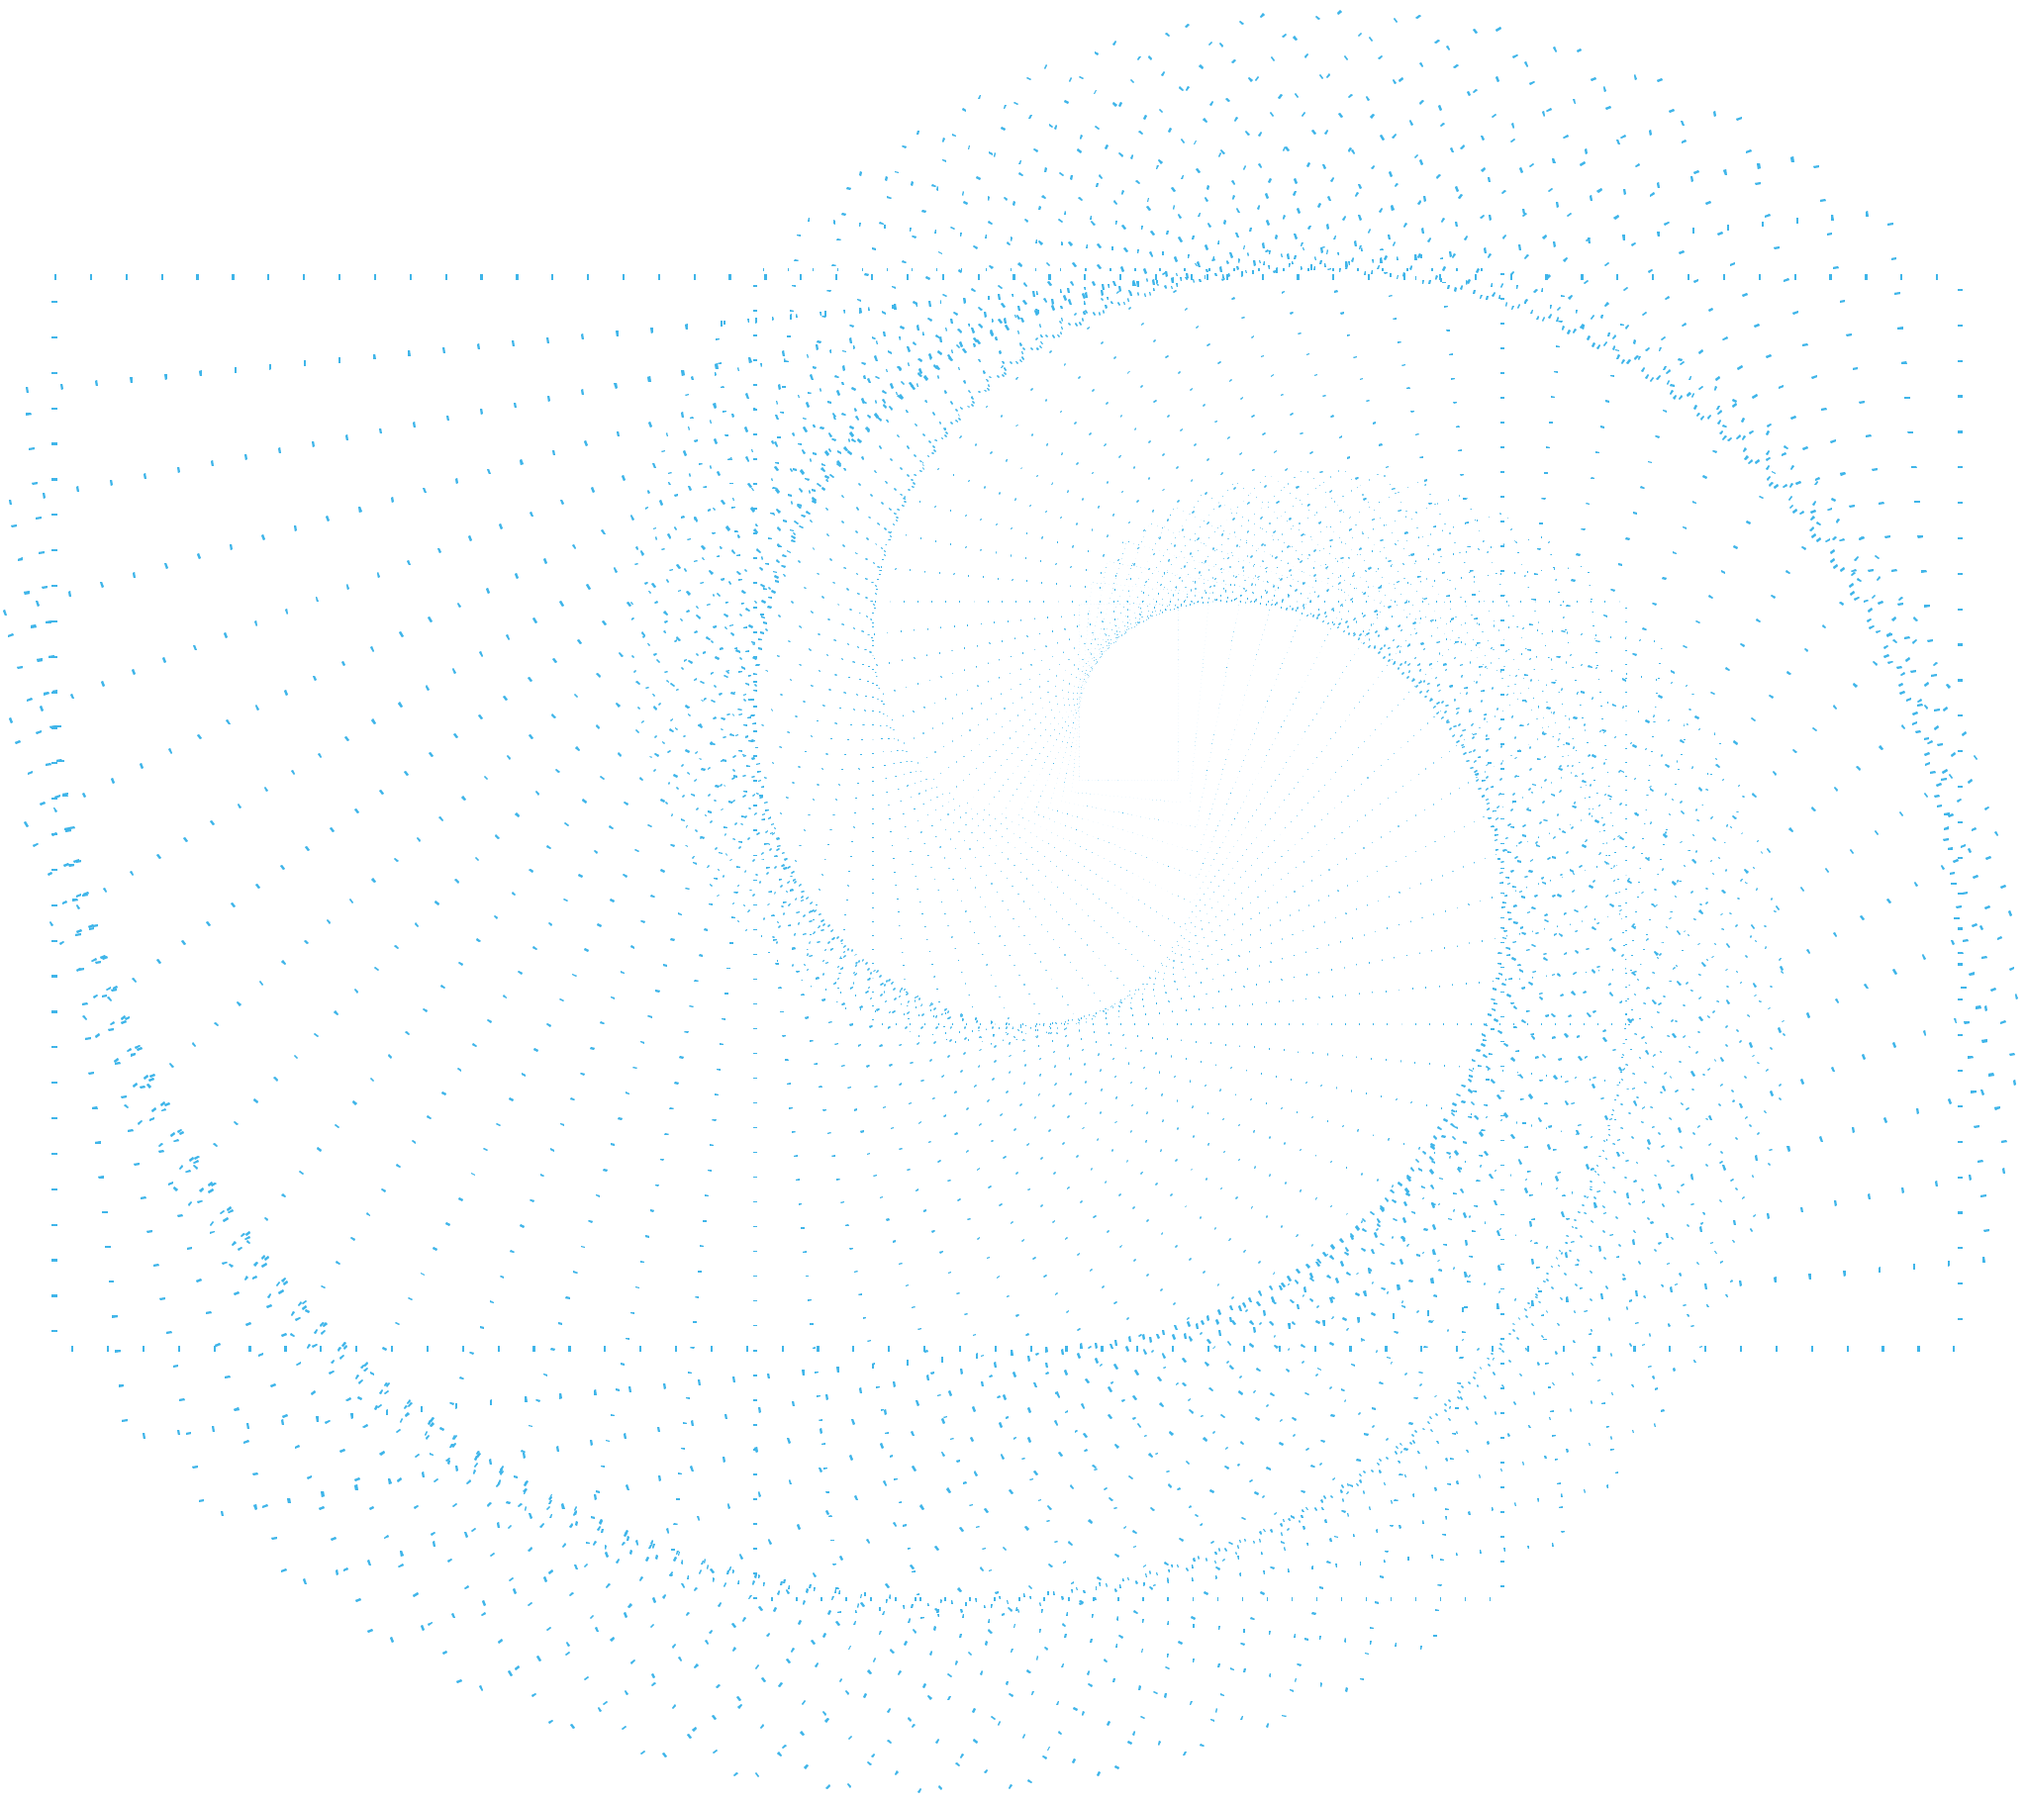
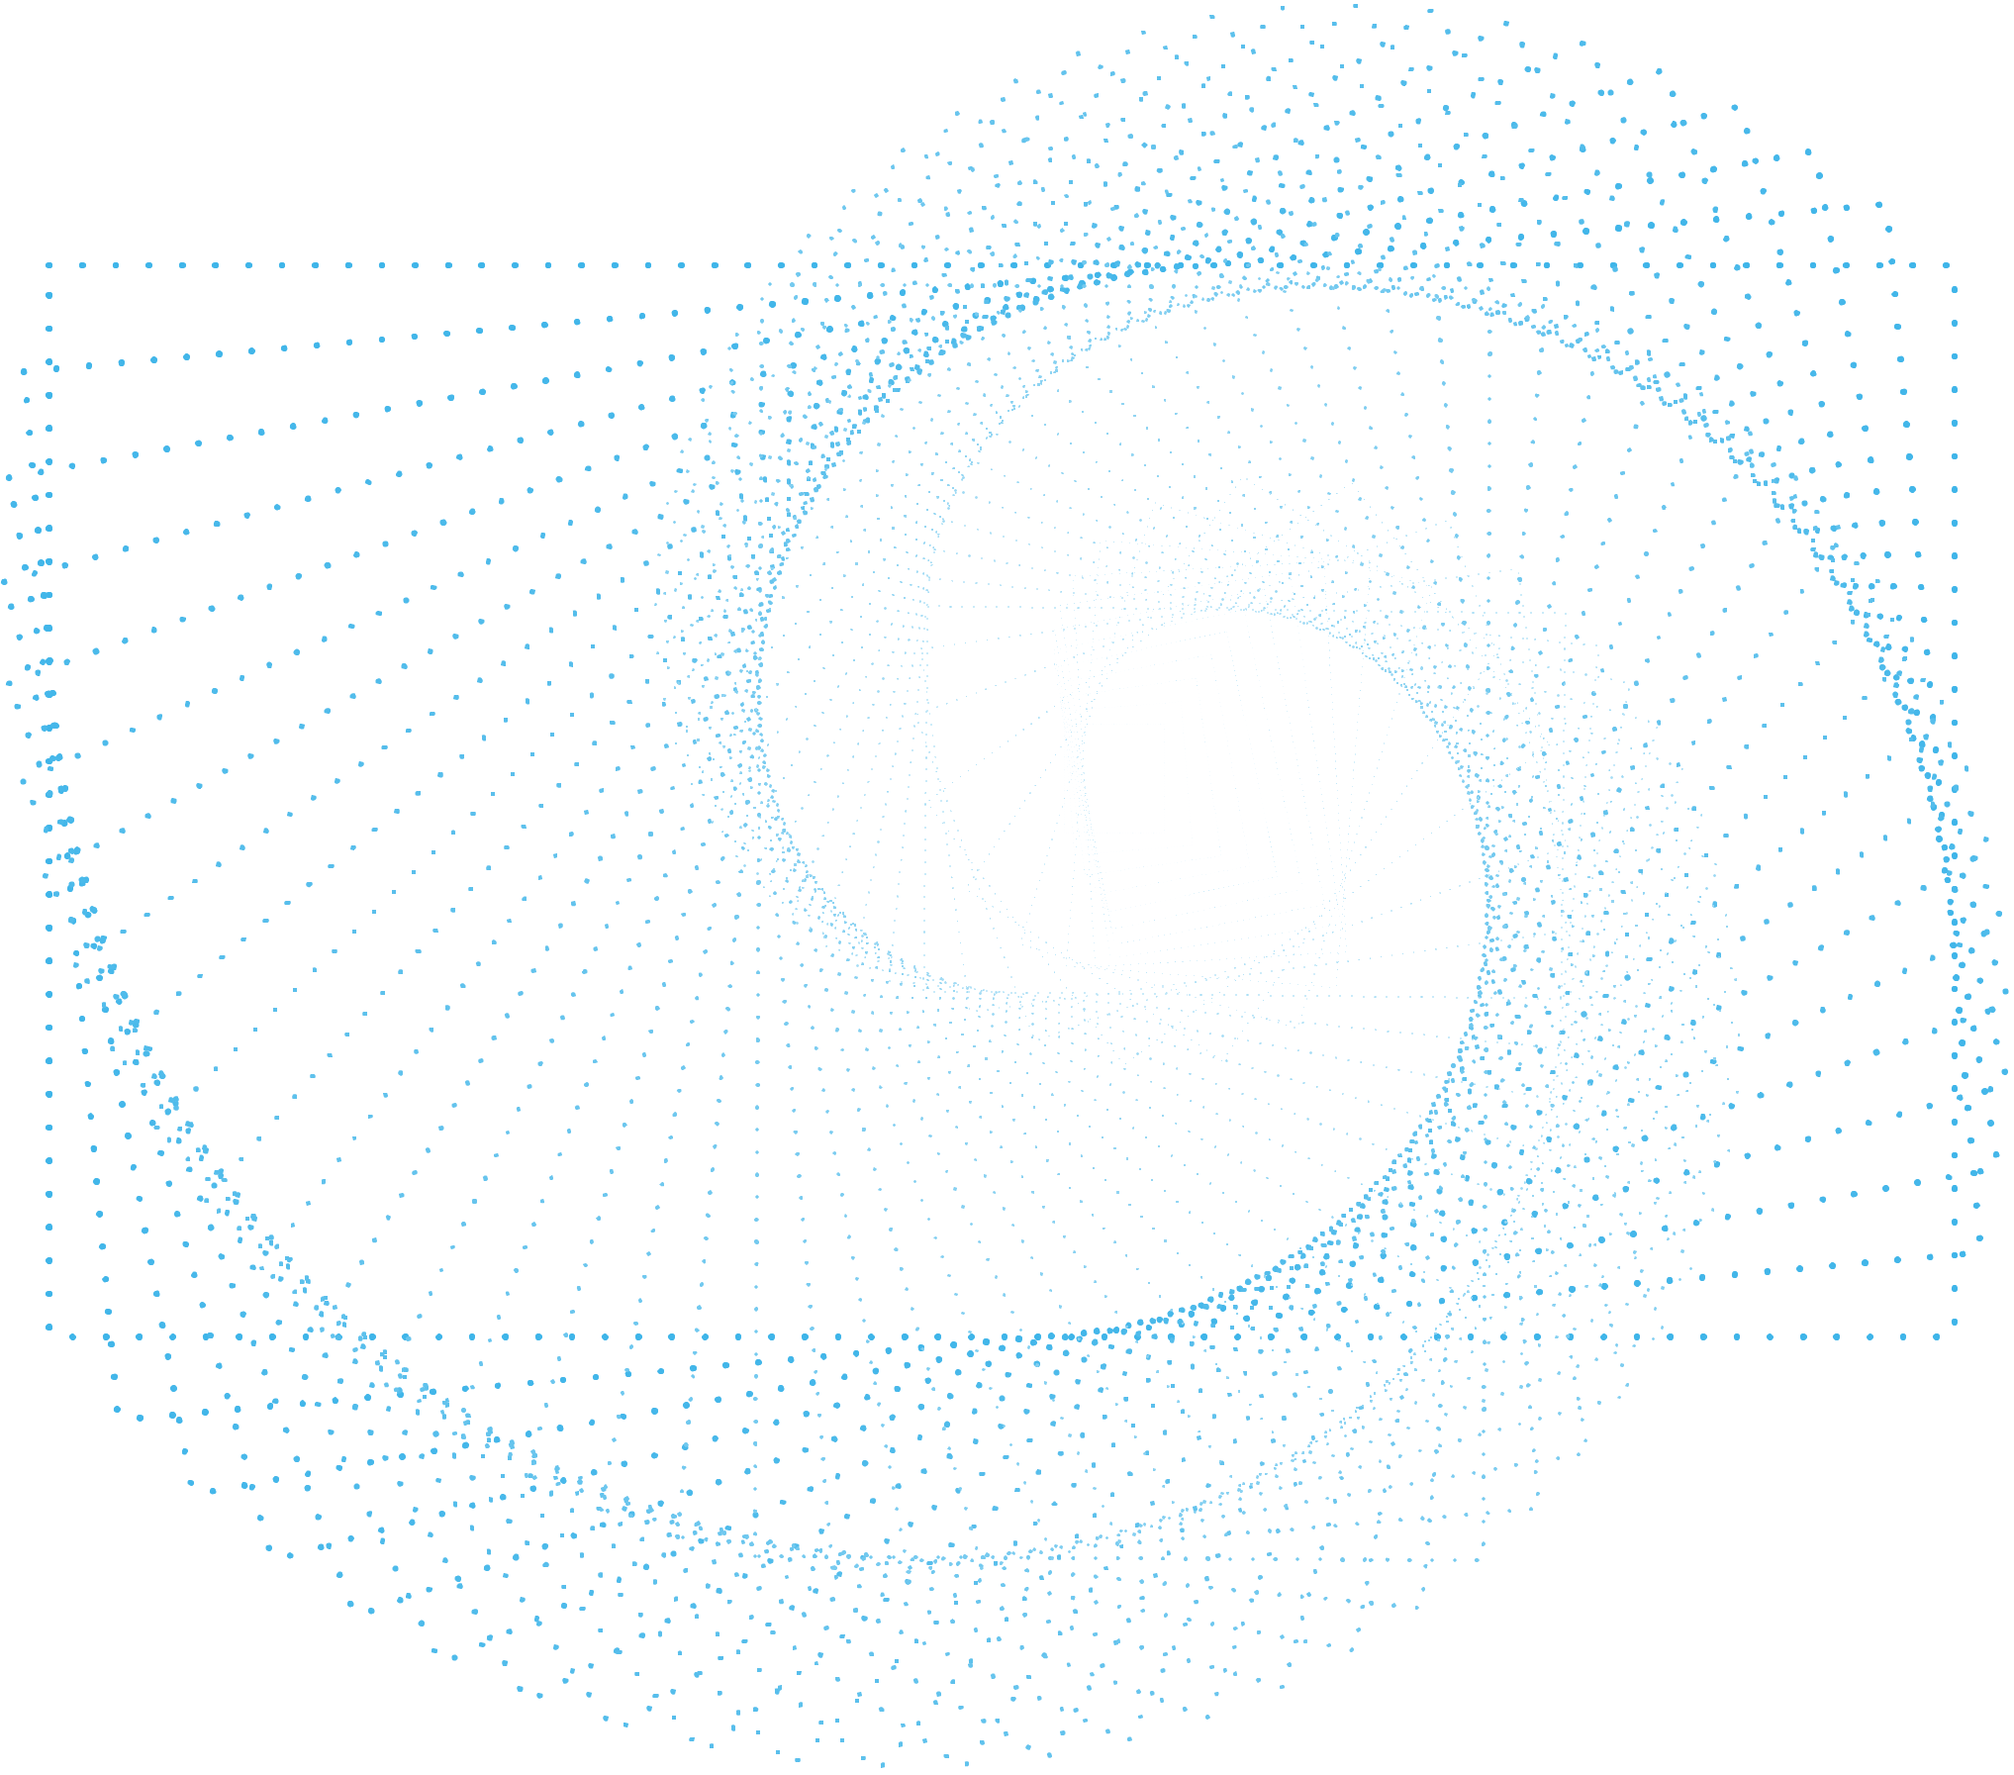
update

diff --git a/src/components/HeroGlobal.tsx b/src/components/HeroGlobal.tsx
@@ -3,6 +3,7 @@ import dynamic from "next/dynamic";
 import Heading from "@ui/Heading";
 import Wrapper from "@ui/Wrapper";
 import Spinner from "@ui/Spinner";
+import Image from "next/image";
 // import Scene from "@components/Scene";
 
 const DynamicScene = dynamic(() => import("../components/Scene"), {
@@ -13,7 +14,7 @@ type HeroGlobalProps = {
   title?: string;
   perex?: string;
   cta?: string;
-  // bgSvgSrc?: string | null;
+  variant?: null | "brand-identity" | "faq";
   // Scene props
   hasScene?: boolean;
   position?: [number, number, number];
@@ -30,7 +31,7 @@ export default function HeroGlobal({
   title = "Lorem ipsum dolor",
   perex = "Lorem ipsum, dolor sit amet consectetur adipisicing elit. Eaque totam dolor magnam esse perspiciatis facere, nam quae quos? Quas reiciendis minus, illum molestiae tempora earum?",
   cta = "Zjistit více",
-  // bgSvgSrc = null,
+  variant = null,
   // Scene props
   hasScene = false,
   position = [100, 10, 10],
@@ -73,9 +74,27 @@ export default function HeroGlobal({
           </Suspense>
         )}
 
-        {/* {!hasScene && bgSvgSrc !== null && (
-          <img src={} alt="" />
-        )} */}
+        {!hasScene && variant === "brand-identity" && (
+          <Image
+            src={"/images/particles/bestaudio-symbol.png"}
+            alt="chyba 404"
+            width={623}
+            height={961}
+            aria-hidden={true}
+            className="pointer-events-none absolute top-1/2 left-1/2 -z-10 h-full w-auto max-w-[90vw] origin-center -translate-x-1/2 -translate-y-1/2 scale-[0.75] object-contain opacity-35"
+          />
+        )}
+
+        {!hasScene && variant === "faq" && (
+          <Image
+            src={"/images/particles/question-mark.png"}
+            alt="chyba 404"
+            width={473}
+            height={639}
+            aria-hidden={true}
+            className="pointer-events-none absolute top-1/2 left-1/2 -z-10 h-full w-auto max-w-[90vw] origin-center -translate-x-1/2 -translate-y-1/2 scale-[0.6] object-contain opacity-35"
+          />
+        )}
 
         <Heading
           as={"h1"}

diff --git a/src/pages/firemni-identita.tsx b/src/pages/firemni-identita.tsx
@@ -17,7 +17,7 @@ const BrandIdentityPage: NextPage = () => {
         noFollow={false}
       />
       {/* Page Content... */}
-      <HeroGlobal title="Firemní identita" />
+      <HeroGlobal title="Firemní identita" variant="brand-identity" />
 
       <Wrapper
         as={"section"}
@@ -79,25 +79,14 @@ const BrandIdentityPage: NextPage = () => {
           />
           <CardLogo
             className="col-span-1"
-            srcSvg="/brand/bestaudio_symbol_digital_tmave_pozadi.svg"
-            srcPng="/brand/bestaudio_symbol_digital_tmave_pozadi.png"
-            width={140}
-            height={218}
-            title="Symbol Bestaudio - pro tmavé pozadí"
-            caption="Lorem ipsum dolor sit amet"
-            isUpScaled
-            background="black"
-          />
-          <CardLogo
-            className="col-span-1"
             srcSvg="/brand/bestaudio_symbol_digital_svetle_pozadi.svg"
             srcPng="/brand/bestaudio_symbol_digital_svetle_pozadi.png"
             width={140}
             height={218}
-            title="Symbol Bestaudio - pro světlé pozadí"
+            title="Symbol Bestaudio"
             caption="Lorem ipsum dolor sit amet"
             isUpScaled
-            background="white"
+            background="black"
           />
         </div>
       </Wrapper>

diff --git a/src/components/services/CarBrandsEshop.tsx b/src/components/services/CarBrandsEshop.tsx
@@ -2,10 +2,19 @@ import CarBrand from "@components/CarBrand";
 import Heading from "@ui/Heading";
 import ScrollReveal from "@ui/ScrollReveal";
 import { cars } from "@configs/car-brands";
+import Image from "next/image";
 
 export default function CarBrandsEshop() {
   return (
-    <>
+    <div className="relative">
+      <Image
+        src={"/images/particles/particles-shell.png"}
+        alt="castice v pozadi"
+        width={1920}
+        height={1920}
+        aria-hidden={true}
+        className="pointer-events-none absolute left-0 top-1/2 -z-10 aspect-square h-auto w-screen origin-center -translate-x-1/2 -translate-y-1/2 scale-[3.75] opacity-20 sm:-translate-y-1/3 sm:scale-[2.25] md:-translate-y-1/2 md:-translate-x-1/2 md:-rotate-90 md:scale-150 xl:left-0 xl:max-w-[1728px] xl:translate-y-[-15%] xl:scale-110"
+      />
       <ScrollReveal
         staggerChildren
         staggerChildrenIncrement="200"
@@ -32,6 +41,6 @@ export default function CarBrandsEshop() {
           />
         ))}
       </div>
-    </>
+    </div>
   );
 }

diff --git a/src/pages/cookies.tsx b/src/pages/cookies.tsx
@@ -5,6 +5,7 @@ import Wrapper from "@ui/Wrapper";
 import Heading from "@ui/Heading";
 import CookiesPolicy from "@components/cookies/CookiesPolicy";
 import { config } from "@configs/site-config";
+import Image from "next/image";
 
 const CookiesPage: NextPage = () => {
   return (
@@ -16,7 +17,15 @@ const CookiesPage: NextPage = () => {
         noFollow={true}
       />
       {/* Page Content... */}
-      <Wrapper paddedContent="lg">
+      <Wrapper paddedContent="lg" className="relative">
+        <Image
+          src={"/images/particles/cookie.png"}
+          alt="cookies symbol"
+          width={659}
+          height={660}
+          aria-hidden={true}
+          className="pointer-events-none absolute top-1/2 left-1/2 -z-10 h-full w-auto max-w-[90vw] origin-center -translate-x-1/2 -translate-y-1/2 scale-[0.60] object-contain opacity-35"
+        />
         <Heading as="h1" size="2xl" align="center" className="mx-auto pt-12">
           Zpracování souborů cookies
         </Heading>

diff --git a/src/pages/404.tsx b/src/pages/404.tsx
@@ -6,6 +6,7 @@ import type { NextPage } from "next";
 import { HiHome } from "react-icons/hi2";
 import Button from "@ui/Button";
 import AppLink from "@ui/AppLink";
+import Image from "next/image";
 
 const Page404: NextPage = () => {
   return (
@@ -19,8 +20,16 @@ const Page404: NextPage = () => {
       <div className="flex h-screen w-screen items-center justify-center">
         <Wrapper
           paddedContent="lg"
-          className="flex flex-col items-center justify-center"
+          className="relative flex flex-col items-center justify-center"
         >
+          <Image
+            src={"/images/particles/404.png"}
+            alt="chyba 404"
+            width={1675}
+            height={561}
+            aria-hidden={true}
+            className="pointer-events-none absolute top-1/2 left-1/2 -z-10 h-auto w-full -translate-x-1/2 -translate-y-1/2 opacity-35"
+          />
           <PreHeading align="center" hasMarginBottom>
             Chyba 404
           </PreHeading>

diff --git a/src/pages/gdpr.tsx b/src/pages/gdpr.tsx
@@ -5,6 +5,7 @@ import type { NextPage } from "next";
 import Wrapper from "@ui/Wrapper";
 import Heading from "@ui/Heading";
 import { config } from "@configs/site-config";
+import Image from "next/image";
 
 const GdprPage: NextPage = () => {
   return (
@@ -16,7 +17,15 @@ const GdprPage: NextPage = () => {
         noFollow={true}
       />
       {/* Page Content... */}
-      <Wrapper paddedContent="lg">
+      <Wrapper paddedContent="lg" className="relative">
+        <Image
+          src={"/images/particles/eu-stars.png"}
+          alt="Eu symbol"
+          width={640}
+          height={640}
+          aria-hidden={true}
+          className="pointer-events-none absolute top-1/2 left-1/2 -z-10 h-full w-auto max-w-[90vw] origin-center -translate-x-1/2 -translate-y-1/2 scale-90 object-contain opacity-35"
+        />
         <Heading as="h1" size="2xl" align="center" className="mx-auto pt-12">
           Zpracování osobních údajů
         </Heading>

diff --git a/src/components/CarBrand.tsx b/src/components/CarBrand.tsx
@@ -20,7 +20,7 @@ export default function CarBrand({
       href={href}
       target={"_blank"}
       rel="noopenner noreferrer"
-      className={`flex shrink-0 flex-row items-center justify-center gap-2 rounded-full bg-body-100 py-2.5 px-6 outline-none transition-colors duration-300 hover:bg-body-200 focus-visible:ring-4 focus-visible:ring-primary ${className}`}
+      className={`flex shrink-0 flex-row items-center justify-center gap-2 rounded-full bg-body-200/35 py-2.5 px-6 outline-none backdrop-blur-sm transition-colors duration-300 hover:bg-body-200/90 focus-visible:ring-4 focus-visible:ring-primary ${className}`}
     >
       <div className="flex h-7 w-9 shrink-0 items-center justify-center">
         <Image

diff --git a/src/components/home/CarBrandsMarquee.tsx b/src/components/home/CarBrandsMarquee.tsx
@@ -17,7 +17,8 @@ export default function CarBrandsMarquee() {
           alt="xxx"
           width={1920}
           height={1920}
-          className="pointer-events-none absolute left-0 top-0 -z-10 aspect-square h-auto w-[200vw] translate-y-[-16%] opacity-40 md:w-screen"
+          aria-hidden={true}
+          className="pointer-events-none absolute left-0 top-0 -z-10 aspect-square h-auto w-screen origin-center translate-y-1/3 scale-[2.25] opacity-20 sm:translate-y-0 sm:scale-150 md:translate-y-[-10%] md:scale-110 xl:left-1/2 xl:max-w-[1728px] xl:translate-y-[-15%] xl:-translate-x-1/2 xl:scale-110"
         />
         <ScrollReveal>
           <Heading

diff --git a/src/components/home/Video.tsx b/src/components/home/Video.tsx
@@ -40,7 +40,7 @@ export default function Video() {
             </div>
           </div>
         </button>
-        <span className="block pt-4 font-display text-xs font-semibold uppercase tracking-widest sm:absolute sm:bottom-8 sm:left-8 sm:text-sm">
+        <span className="pointer-events-none block pt-4 font-display text-xs font-semibold uppercase tracking-widest sm:absolute sm:bottom-8 sm:left-8 sm:text-sm">
           Přehrát video
         </span>
       </div>

diff --git a/src/pages/faq.tsx b/src/pages/faq.tsx
@@ -16,7 +16,7 @@ const Faq: NextPage = () => {
         noFollow={false}
       />
 
-      <HeroGlobal title="FAQ" />
+      <HeroGlobal title="FAQ" variant={"faq"} />
 
       {/* Úvodní sekce */}
       <Wrapper
